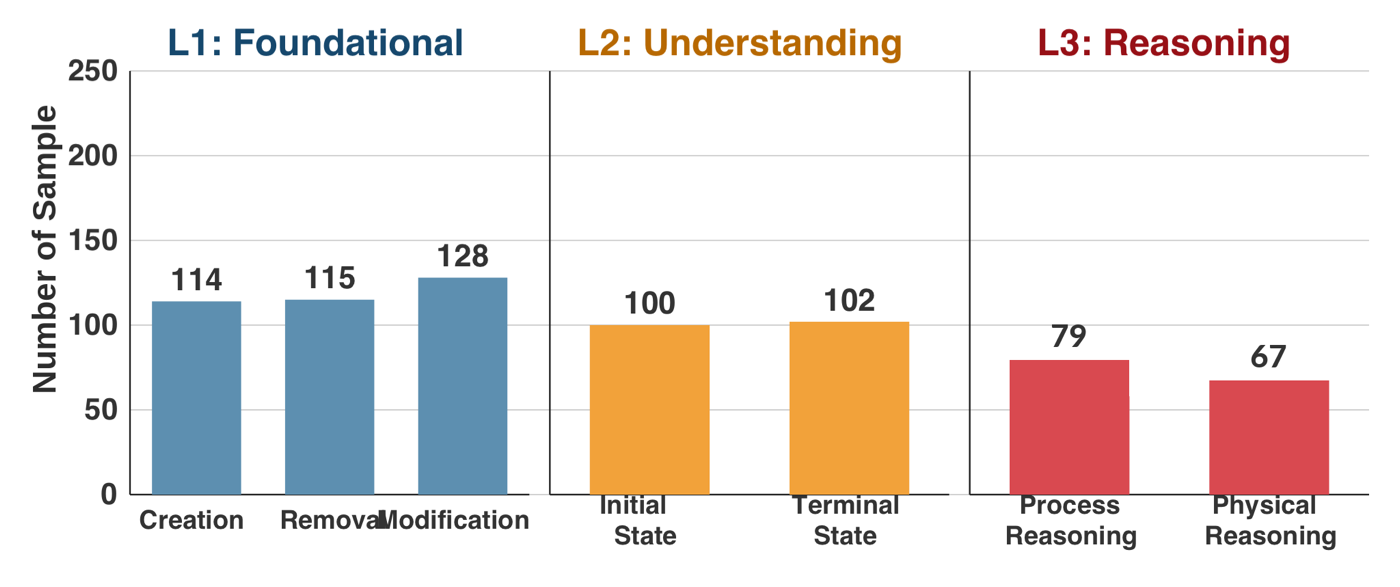
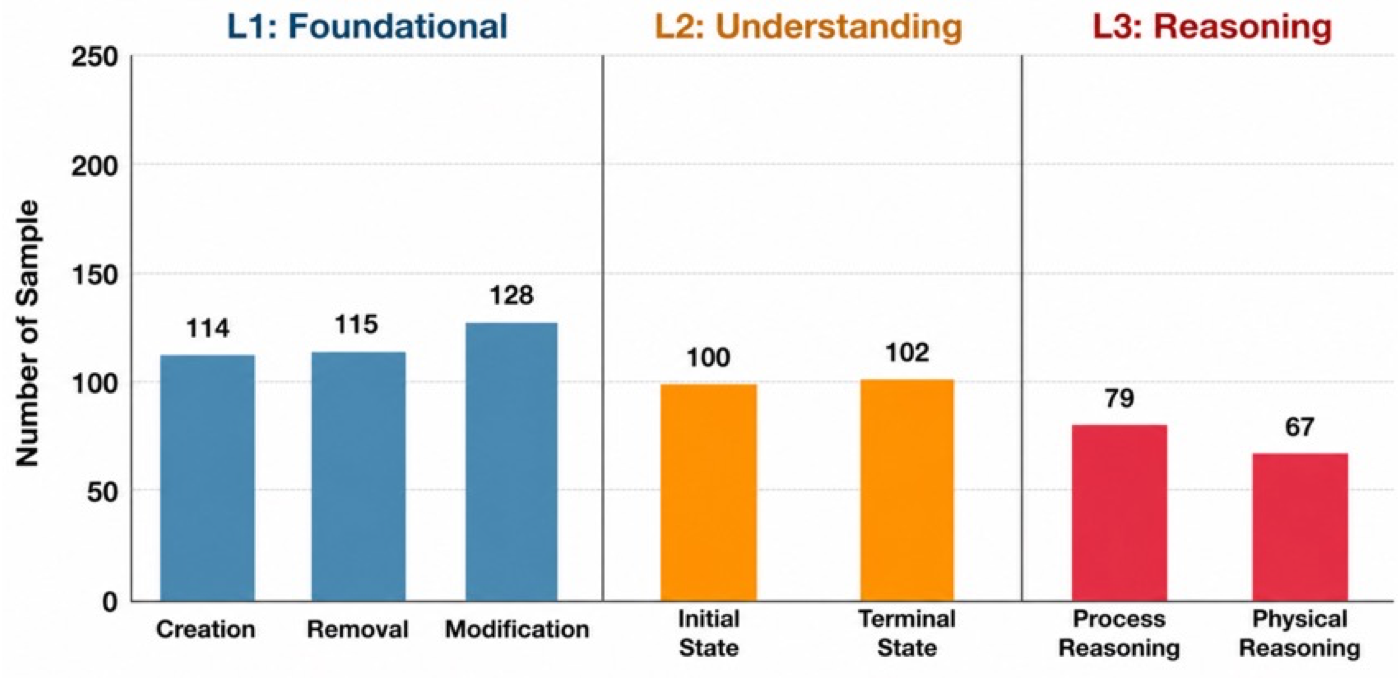
Update benchmark figures

diff --git a/index.html b/index.html
@@ -127,18 +127,18 @@
         </div>
 
         <figure class="wide-figure reveal">
-          <img src="assets/fig2_v8.pdf.png" alt="HOI-Edit benchmark cognitive levels" />
+          <img src="assets/fig2_v9.pdf.png" alt="HOI-Edit benchmark cognitive levels" />
           <figcaption>HOI-Edit organizes image HOI editing into progressive cognitive levels.</figcaption>
         </figure>
 
         <div class="data-figures">
           <figure class="visual-panel reveal">
             <img src="assets/fig4_v4.pdf.png" alt="HOI-Edit data distribution" />
-            <figcaption>HOI-Edit data distribution across cognitive levels.</figcaption>
+            <figcaption>Sample distribution across HOI-Edit cognitive levels.</figcaption>
           </figure>
           <figure class="visual-panel reveal">
             <img src="assets/wordcloud.png" alt="Word cloud of interaction verbs" />
-            <figcaption>Interaction verbs across curated samples.</figcaption>
+            <figcaption>Interaction verb coverage in curated instructions.</figcaption>
           </figure>
         </div>
       </section>